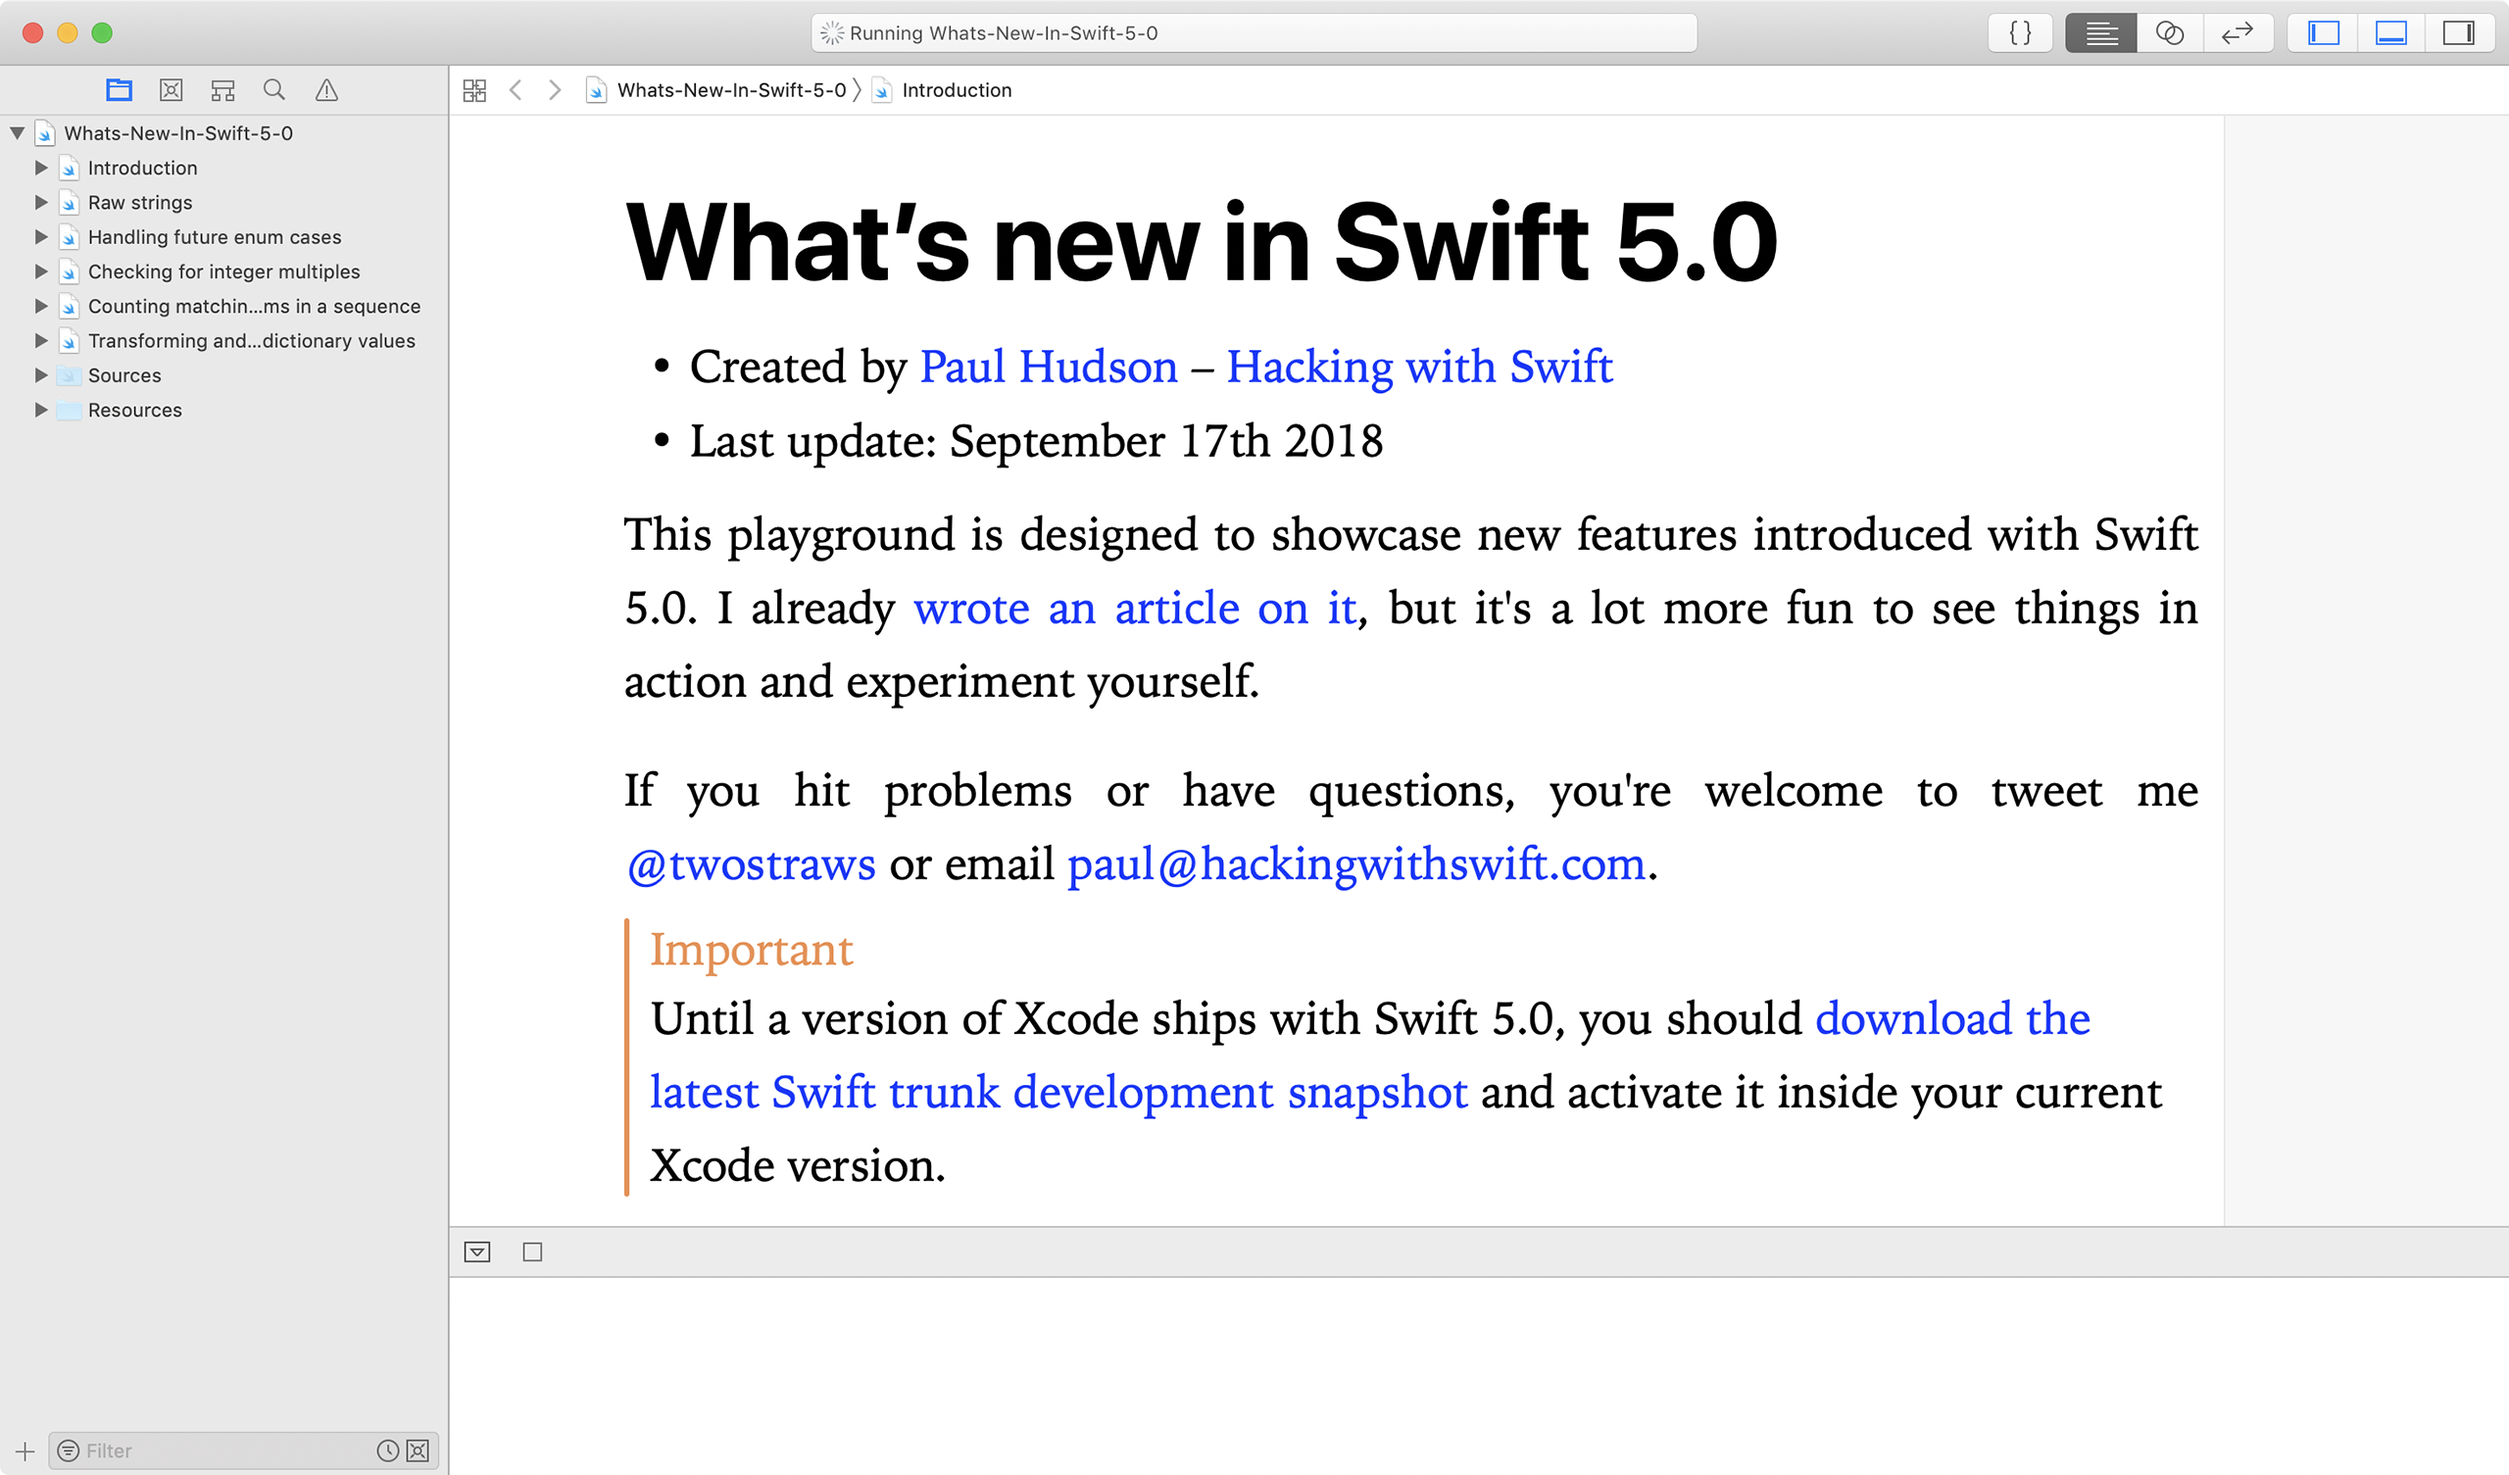
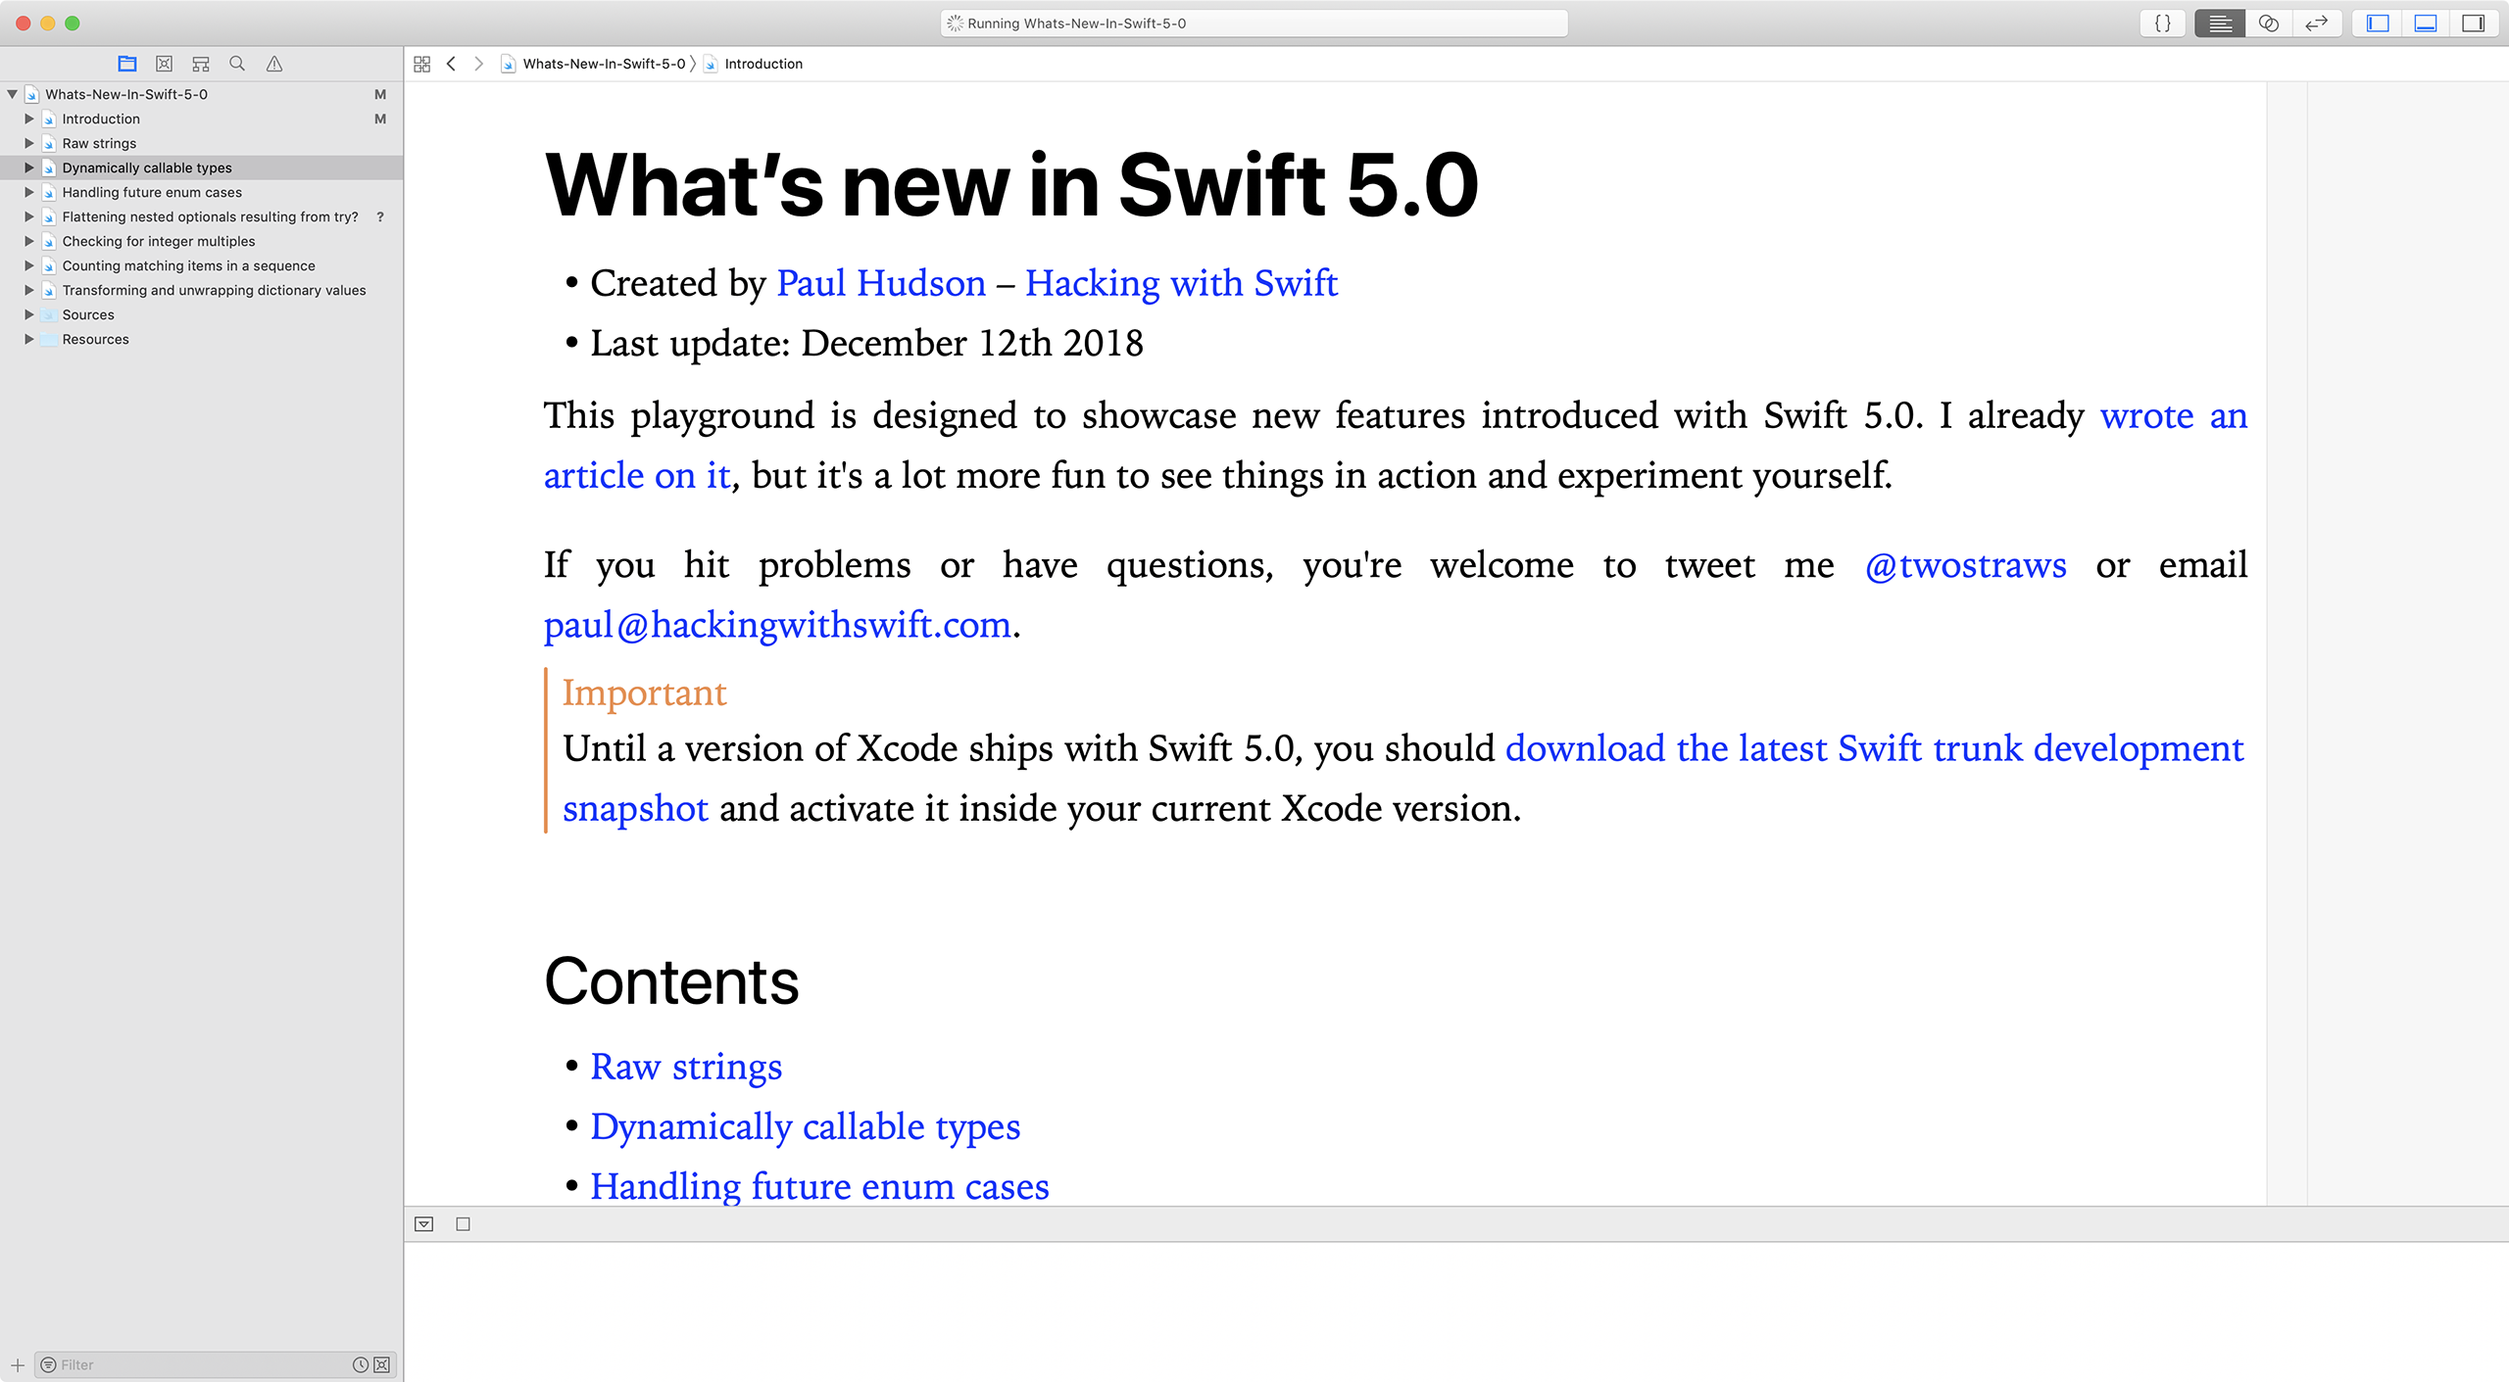
Added nested optional flattening.

diff --git a/Whats-New-In-Swift-5-0.playground/Pages/Flattening nested optionals resulting from try?.xcplaygroundpage/Contents.swift b/Whats-New-In-Swift-5-0.playground/Pages/Flattening nested optionals resulting from try?.xcplaygroundpage/Contents.swift
@@ -1,0 +1,39 @@
+/*:
+ [< Previous](@previous)           [Home](Introduction)           [Next >](@next)
+
+ ## Flattening nested optionals resulting from try?
+
+ [SE-0230](https://github.com/apple/swift-evolution/blob/master/proposals/0230-flatten-optional-try.md) modifies the way `try?` works so that nested optionals are flattened to become regular optionals. This makes it work the same way as optional chaining and conditional typecasts, both of which flatten optionals in earlier Swift versions.
+
+ Here’s a practical example that demonstrates the change:
+*/
+struct User {
+    var id: Int
+
+    init?(id: Int) {
+        if id < 1 {
+            return nil
+        }
+
+        self.id = id
+    }
+
+    func getMessages() throws -> String {
+        // complicated code here
+        return "No messages"
+    }
+}
+
+let user = User(id: 1)
+let messages = try? user?.getMessages()
+/*:
+ The `User` struct has a failable initializer, because we want to make sure folks create users with a valid ID. The `getMessages()` method would in theory contain some sort of complicated code to get a list of all the messages for the user, so it’s marked as `throws`; I’ve made it return a fixed string so the code compiles.
+
+ The key line is the last one: because the user is optional it uses optional chaining, and because `getMessages()` can throw it uses `try?` to convert the throwing method into an optional, so we end up with a nested optional. In Swift 4.2 and earlier this would make `messages` a `String??` – an optional optional string – but in Swift 5.0 and later `try?` won’t wrap values in an optional if they are already optional, so `messages` will just be a `String?`.
+
+ This new behavior matches the existing behavior of optional chaining and conditional typecasting. That is, you could use optional chaining a dozen times in a single line of code if you wanted, but you wouldn’t end up with 12 nested optionals. Similarly, if you used optional chaining with `as?`, you would still end up with only one level of optionality, because that’s usually what you want.
+ 
+ &nbsp;
+
+ [< Previous](@previous)           [Home](Introduction)           [Next >](@next)
+ */

diff --git a/Whats-New-In-Swift-5-0.playground/Pages/Introduction.xcplaygroundpage/Contents.swift b/Whats-New-In-Swift-5-0.playground/Pages/Introduction.xcplaygroundpage/Contents.swift
@@ -2,7 +2,7 @@
  # What’s new in Swift 5.0
 
  * Created by [Paul Hudson](https://twitter.com/twostraws) – [Hacking with Swift](https://www.hackingwithswift.com)
- * Last update: November 27th 2018
+ * Last update: December 12th 2018
 
  This playground is designed to showcase new features introduced with Swift 5.0. I already [wrote an article on it](https://www.hackingwithswift.com/articles/126/whats-new-in-swift-5-0), but it's a lot more fun to see things in action and experiment yourself.
 
@@ -17,6 +17,7 @@
  * [Raw strings](Raw%20strings)
  * [Dynamically callable types](Dynamically%20callable%20types)
  * [Handling future enum cases](Handling%20future%20enum%20cases)
+ * [Flattening nested optionals resulting from try?](Flattening%20nested%20optionals%20resulting%20from%20try%3F)
  * [Checking for integer multiples](Checking%20for%20integer%20multiples)
  * [Counting matching items in a sequence](Counting%20matching%20items%20in%20a%20sequence)
  * [Transforming and unwrapping dictionary values with compactMapValues()](Transforming%20and%20unwrapping%20dictionary%20values)

diff --git a/README.md b/README.md
@@ -5,6 +5,7 @@ This is an Xcode playground that demonstrates the new features introduced in Swi
 * Raw strings
 * Dynamically callable types
 * Handling future enum cases
+* Flattening nested optionals resulting from try?
 * Checking for integer multiples
 * Counting matching items in a sequence
 * Transforming and unwrapping dictionary values with compactMapValues()
@@ -15,4 +16,4 @@ If you hit problems or have questions, you're welcome to tweet me [@twostraws](h
 
 **Note:** Until a version of Xcode ships with Swift 5.0, you should [download the latest Swift trunk development snapshot](https://swift.org/download/) and activate it inside your current Xcode version.
 
-![Screenshot of Xcode 10.0 running this playground.](playground-screenshot.png)
+![Screenshot of Xcode 10.1 running this playground.](playground-screenshot.png)
